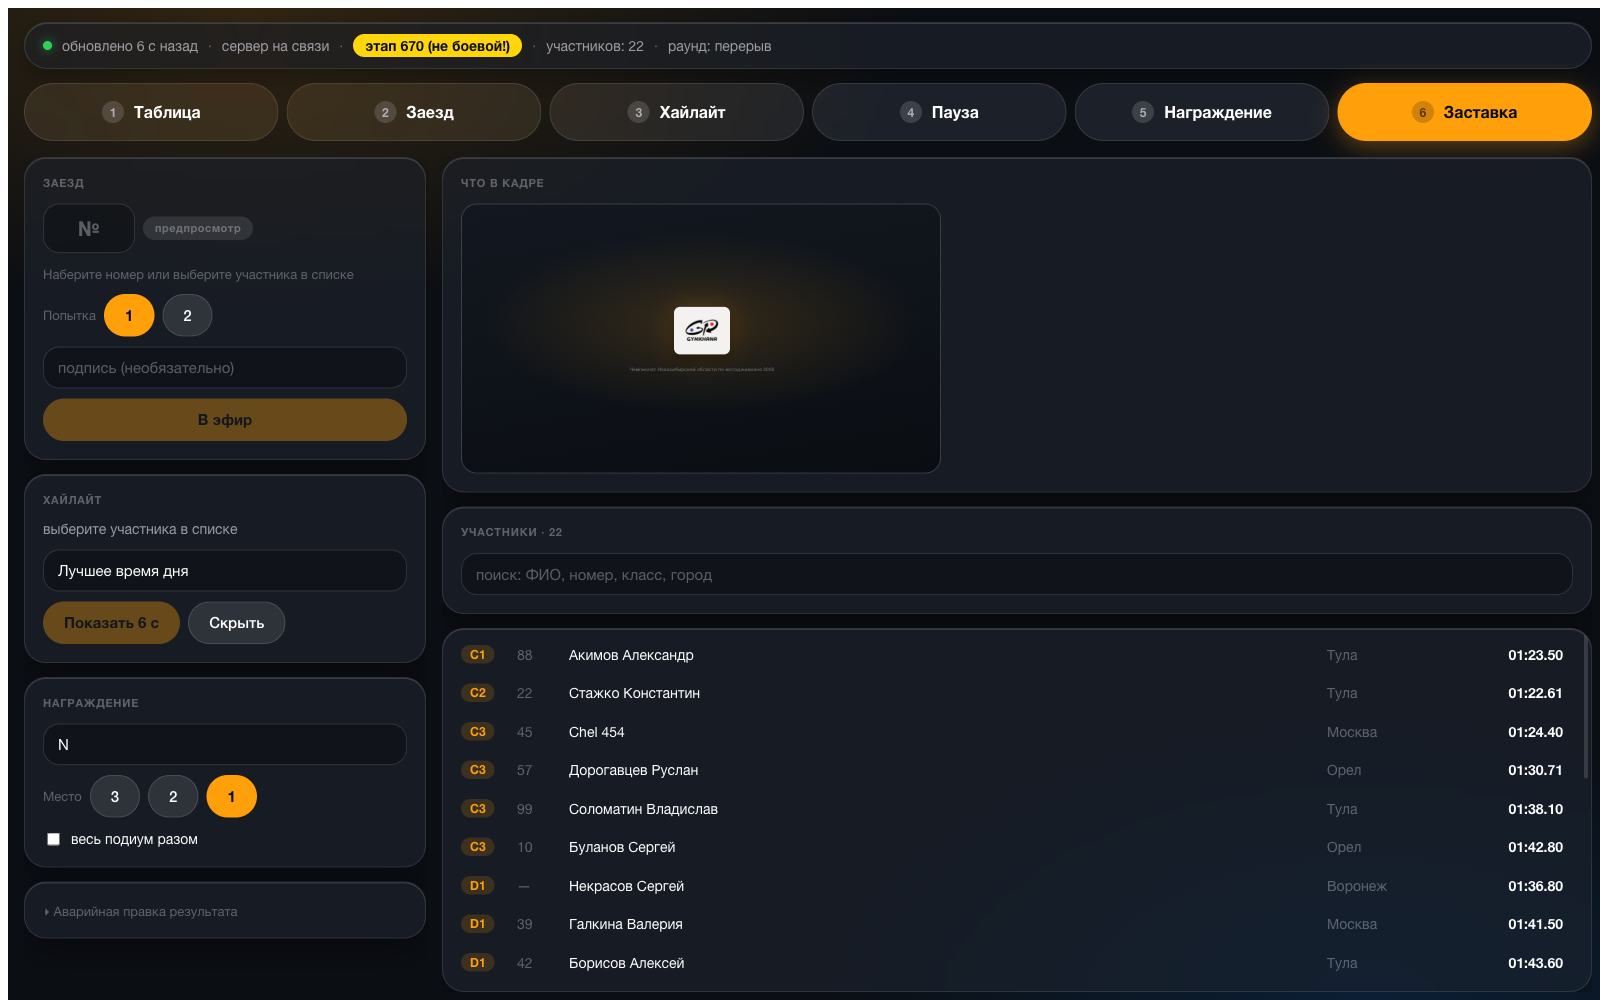
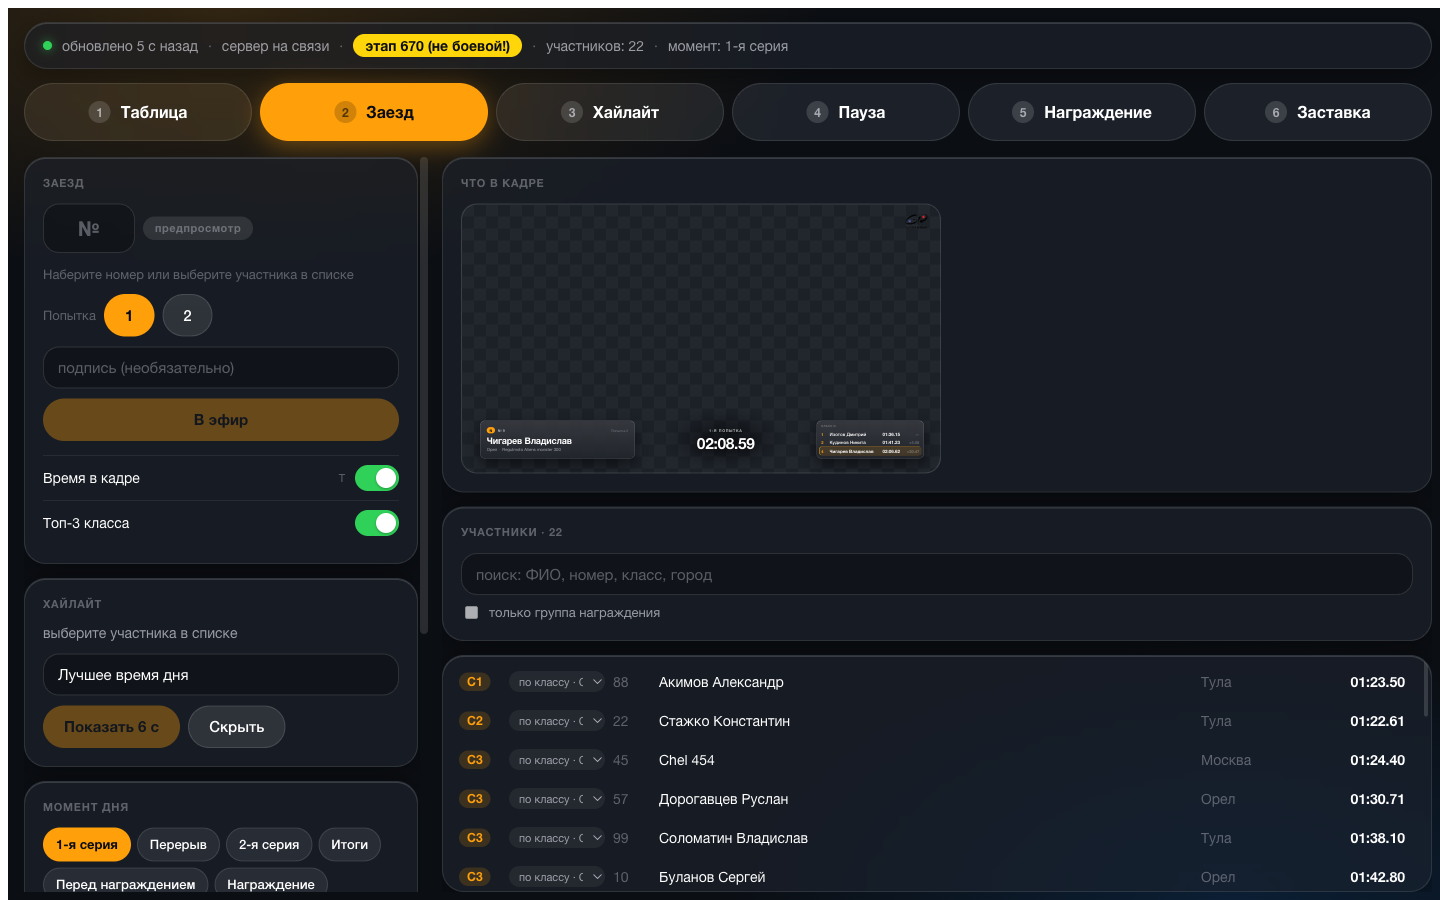
feat: точность разницы по слабейшему измерению, документация сцены заезда
Таймер отдаёт десятитысячные, протокол печатает сотые — показывать
«−1.9700» значило бы заявить точность, которой в данных нет.

diff --git a/app/src/overlay/RunTime.vue b/app/src/overlay/RunTime.vue
@@ -55,7 +55,14 @@ const delta = computed(() => {
   )
   if (seconds === null) return null
 
-  return { seconds, text: formatDelta(seconds, fractionDigits(props.timer.time)) }
+  // Точность разницы — по слабейшему из двух измерений. Таймер отдаёт
+  // десятитысячные, протокол печатает сотые: показать «−1.9700» значило бы
+  // заявить точность, которой в исходных данных нет.
+  const digits = Math.min(
+    fractionDigits(props.timer.time), fractionDigits(previous.value?.time),
+  )
+
+  return { seconds, text: formatDelta(seconds, digits) }
 })
 
 // Что стоит в блоке: подпись, крупные цифры и притушенный хвост сетки.
@@ -130,12 +137,15 @@ const face = computed(() => {
 .time::before {
   content: "";
   position: absolute;
-  inset: -30px -40px;
+  inset: -54px -86px;
+  /* Затухание доведено до самого края: оборви его раньше, и дымка
+     прочитается овальным пятном — то есть той же плашкой, только мутной. */
   background: radial-gradient(
-    60% 62% at 50% 50%,
-    rgba(0, 0, 0, 0.52) 0%,
-    rgba(0, 0, 0, 0.32) 45%,
-    transparent 78%
+    closest-side at 50% 50%,
+    rgba(0, 0, 0, 0.5) 0%,
+    rgba(0, 0, 0, 0.38) 34%,
+    rgba(0, 0, 0, 0.16) 64%,
+    transparent 100%
   );
   pointer-events: none;
 }

diff --git a/TODO.md b/TODO.md
@@ -242,7 +242,7 @@ MACBOOK-PRO-2SHSH913424.LOCAL (MG-OVERLAY)
 | Режим пульта | Что в кадре |
 |---|---|
 | `1` Таблица | **непрозрачный кадр целиком** |
-| `2` Заезд | прозрачно, карточка и топ-5 плашками |
+| `2` Заезд | прозрачно, карточка и топ-3 плашками, время без подложки |
 | `3` Хайлайт | прозрачно, нижняя треть |
 | `4` Пауза | **непрозрачный кадр целиком** |
 | `5` Награждение | прозрачно |
@@ -501,7 +501,8 @@ STAGE=670 npm start     # репетиция на архивном этапе с
 
 - [x] Сервер перезапущен — `dist/` собран 05.08 в 11:55, сервер поднят следом, слушает 4300
 - [x] В `event.config.js` боевой этап **677** (репетиция запускается через `STAGE=670`, файл править не нужно)
-- [ ] Переснять `docs/screenshots/8-control.png` — на снимке от 04.08 нет панели «Момент дня», хотя в пульте она есть (`app/src/control/RoundBlock.vue`)
+- [x] Переснята вся пара снимков: `8-control.png` (появилась панель «Момент дня» и тумблеры сцены) и `2-run.png` (сцена заезда пересобрана)
+- [x] Сцена заезда пересобрана: три блока по нижней кромке, топ-3 вместо топ-5, зона времени под таймер. Занимает 7,7 % кадра вместо 14,6 %. Тумблеры «Время в кадре» (клавиша `T`) и «Топ-3 класса» — в панели «Заезд»
 - [ ] По желанию: готовая коллекция сцен OBS одним файлом для импорта — заготовку может собрать Claude
 
 ## Таймер со второго ноутбука
@@ -509,6 +510,13 @@ STAGE=670 npm start     # репетиция на архивном этапе с
 Решения по транспорту приняты, объём работы неизвестен: устройство страницы
 таймера выясняется 05.08.2026. Подробности — в
 [заготовке плана](docs/superpowers/plans/2026-08-04-timer-bridge.md).
+
+**Кадр под таймер готов 05.08.2026.** Место в сцене заезда занято, оба
+режима нарисованы, контракт поля `state.timer` зафиксирован в
+[спеке](docs/superpowers/specs/2026-08-05-run-layout-design.md). Осталось
+только заполнять это поле с моста — оверлей переключится в живой отсчёт сам.
+Пока моста нет, зона времени показывает время первой попытки тем, кто едет
+вторую, и это работает уже сейчас.
 
 Транспорт можно проверить, не дожидаясь формата — от него не зависит:
 

diff --git a/ARCHITECTURE.md b/ARCHITECTURE.md
@@ -221,6 +221,20 @@ app/src/
 под содержимое. На нём стоят заставка, пауза и награждение, поэтому фон
 описан один раз и сцены не расходятся.
 
+Сцена заезда собрана иначе — из трёх блоков, стоящих по нижней кромке:
+карточка райдера, зона времени и топ-3 класса. Каждый позиционируется от
+краёв кадра, а не потоком, поэтому выключенный тумблером сосед не двигает
+остальных. Единственное, что блоки знают друг о друге, — общая высота:
+`RunScene` кладёт её в переменную `--scene-h`, а блоки читают. Подпись
+райдера занимает третью строку карточки, и высота растёт со 152 до 190 px
+сразу у всех трёх — разъехавшиеся края читались бы как сбой вёрстки.
+
+`RunTime.vue` называется зоной времени, а не таймером, потому что работает
+в двух режимах. Есть живые показания моста — ведёт локальный отсчёт от
+точки старта. Показаний нет или они старше двух секунд — показывает время
+первой попытки тем, кто едет вторую. Второй режим и есть рабочий, пока мост
+до второго ноутбука не поднят.
+
 ## 6. Как менять
 
 ### Парсер сломался (сайт поменял вёрстку)

diff --git a/README.md b/README.md
@@ -40,7 +40,8 @@ stageUrlTemplate: 'https://gymkhana-cup.ru/competitions/stage?id={id}',
 port: 4300,
 pollInterval: 7000,      // как часто опрашивать сайт, мс
 highlightTimeout: 6000,  // сколько держится хайлайт, мс
-showClassTop5: true,     // топ-5 класса рядом с карточкой заезда
+showRunTime: true,       // зона времени в заезде: таймер и время первой попытки
+showClassTop: true,      // топ-3 класса рядом с карточкой заезда
 awardGroups: [...],      // какие классы объединяются в награждение
 ```
 
@@ -138,7 +139,7 @@ awardGroups: [...],      // какие классы объединяются в 
 | | |
 |---|---|
 | ![Таблица](docs/screenshots/1-results.png) | ![Заезд](docs/screenshots/2-run.png) |
-| Общая таблица результатов | Заезд: карточка и топ-5 класса |
+| Общая таблица результатов | Заезд: карточка, зона времени и топ-3 класса |
 | ![Награждение](docs/screenshots/5-award-podium.png) | ![Заставка](docs/screenshots/7-idle.png) |
 | Награждение | Заставка |
 

diff --git a/docs/screenshots/README.md b/docs/screenshots/README.md
@@ -9,7 +9,7 @@
 | Сцена | Файл |
 |---|---|
 | Общая таблица результатов | [1-results.png](1-results.png) |
-| Заезд: карточка райдера и топ-5 класса | [2-run.png](2-run.png) |
+| Заезд: карточка райдера, зона времени и топ-3 класса | [2-run.png](2-run.png) |
 | Хайлайт: нижняя треть | [3-highlight.png](3-highlight.png) |
 | Пауза | [4-break.png](4-break.png) |
 | Награждение: весь подиум | [5-award-podium.png](5-award-podium.png) |
